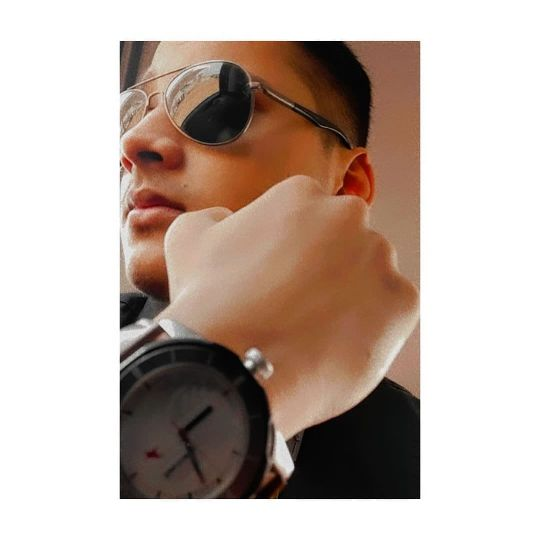
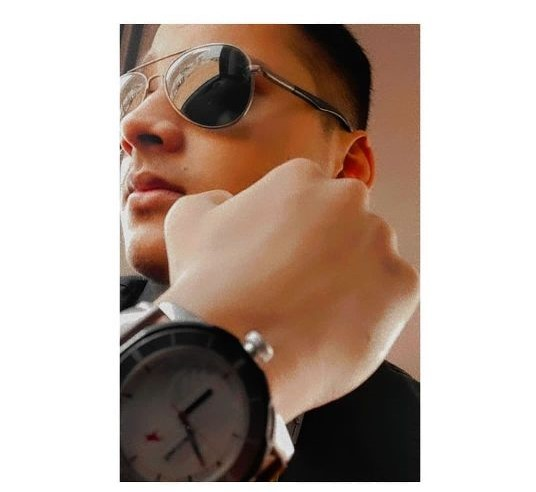
image optimisation

diff --git a/index.html b/index.html
@@ -547,11 +547,11 @@
                     <div class="col-lg-4 col-md-6 col-sm-12 portfolio-item filter-3 wow fadeInUp" data-wow-delay="1s">
                         <div class="portfolio-wrap">
                             <div class="portfolio-img">
-                                <img src="img/cwc_mem/om.PNG" alt="Image">
+                                <img src="img/cwc_mem/om.jpg" alt="Image">
                             </div>
                             <div class="portfolio-text">
                                 <h3>Omm Kumar(2nd Year)</h3>
-                                <a class="btn" href="img/cwc_mem/om.PNG" data-lightbox="portfolio">+</a>
+                                <a class="btn" href="img/cwc_mem/om.jpg" data-lightbox="portfolio">+</a>
                             </div>
                         </div>
                     </div>
